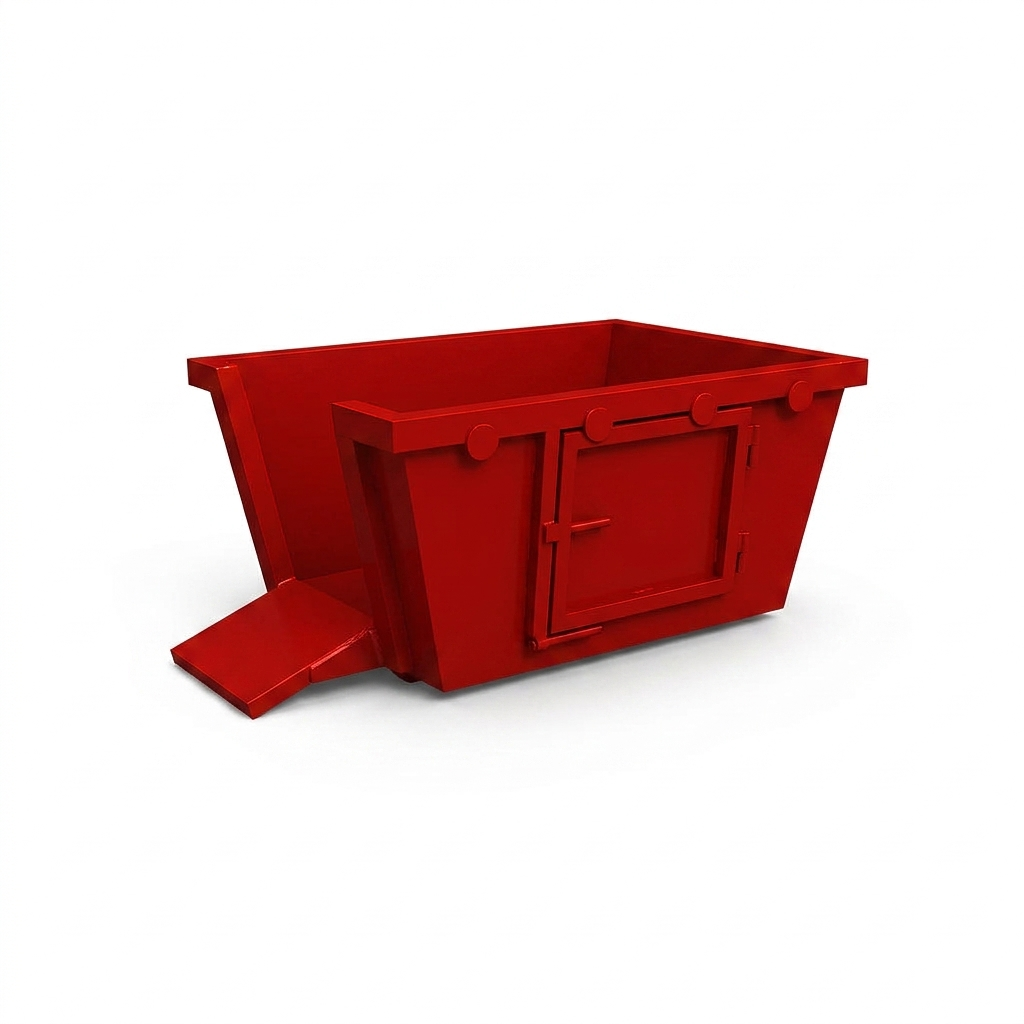
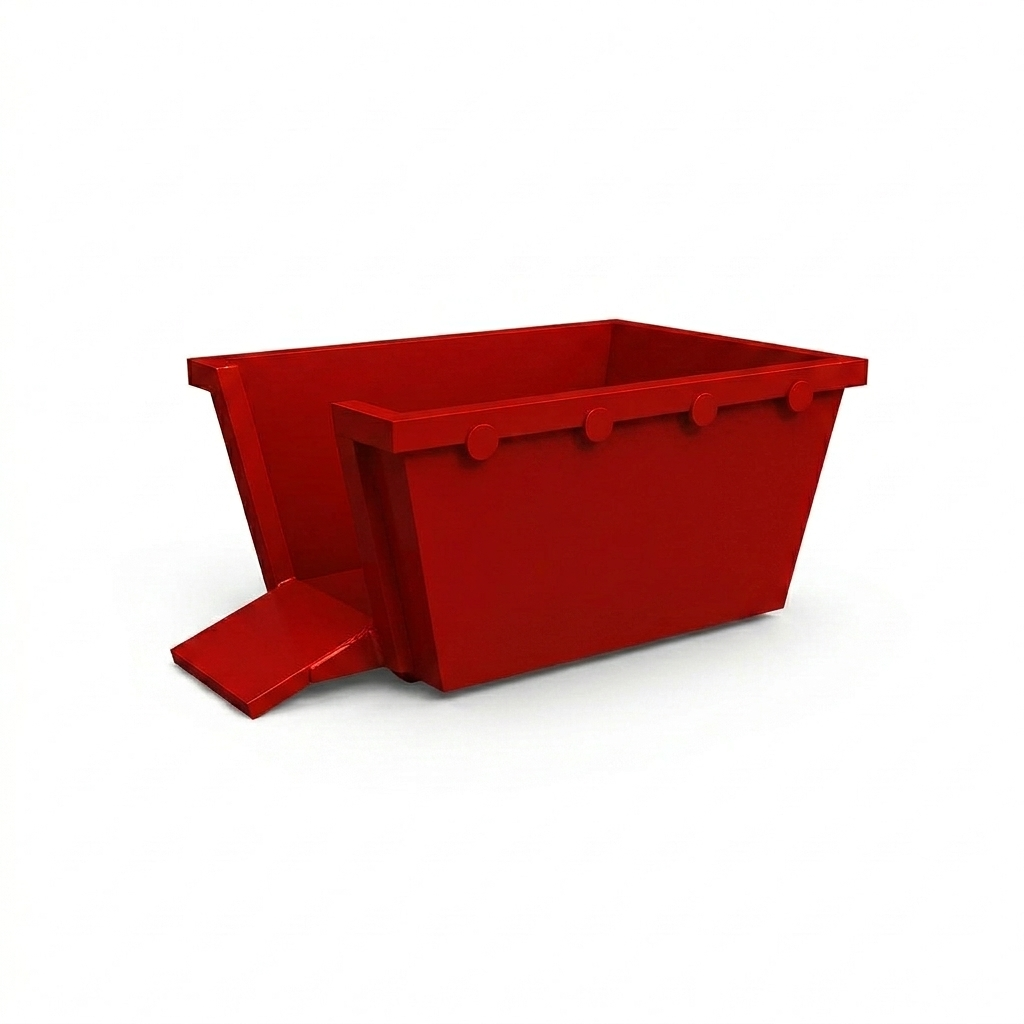
auto-commit for e54a3b36-21b4-4f69-8a6c-22b076510828

Changed region(s): [[0.5, 0.375, 0.75, 0.6562]]

diff --git a/backend/scripts/remove_doors_from_bins.py b/backend/scripts/remove_doors_from_bins.py
@@ -1,0 +1,68 @@
+"""Remove the walk-in door panel from all 4 skip bin images.
+
+Uses image-to-image to keep everything identical except removing the door.
+"""
+import asyncio
+import base64
+import os
+import sys
+from dotenv import load_dotenv
+from emergentintegrations.llm.chat import LlmChat, UserMessage, ImageContent
+
+load_dotenv("/app/backend/.env")
+API_KEY = os.getenv("EMERGENT_LLM_KEY")
+assert API_KEY
+
+PUBLIC_DIR = "/app/frontend/public"
+
+EDIT_PROMPT = (
+    "This is a red Marrel-style hook-lift skip bin. KEEP everything in this "
+    "image EXACTLY the same — same red colour (#bf0403), same 3/4 perspective, "
+    "same size, same position in frame, same proportions, same attached small "
+    "ramp/chute at the bottom-left, same ground shadow, same pure white "
+    "background. DO NOT change anything else.\n\n"
+    "The ONLY change: REMOVE any walk-in door panel and any visible vertical "
+    "seam lines from the side of the bin. The bin's side should be one smooth, "
+    "uninterrupted red surface with NO door, NO panel outlines, NO seam lines, "
+    "NO handles. Just a clean, solid bin body.\n\n"
+    "Output a single cleaned-up image preserving the original style exactly, "
+    "with the door fully removed."
+)
+
+
+async def remove_door(size_key: str) -> bool:
+    src = os.path.join(PUBLIC_DIR, f"skip-bin-{size_key}m.png")
+    with open(src, "rb") as f:
+        ref_b64 = base64.b64encode(f.read()).decode("utf-8")
+    chat = LlmChat(
+        api_key=API_KEY,
+        session_id=f"skip-bin-no-door-{size_key}",
+        system_message="You carefully edit product render images.",
+    ).with_model("gemini", "gemini-3.1-flash-image-preview").with_params(
+        modalities=["image", "text"]
+    )
+    msg = UserMessage(text=EDIT_PROMPT, file_contents=[ImageContent(ref_b64)])
+    try:
+        text, images = await chat.send_message_multimodal_response(msg)
+    except Exception as e:
+        print(f"[{size_key}m] error: {e}")
+        return False
+    if not images:
+        print(f"[{size_key}m] no images returned. snippet: {(text or '')[:140]}")
+        return False
+    out = os.path.join(PUBLIC_DIR, f"skip-bin-{size_key}m.png")
+    image_bytes = base64.b64decode(images[0]["data"])
+    with open(out, "wb") as f:
+        f.write(image_bytes)
+    print(f"[{size_key}m] DOOR REMOVED -> {out} ({len(image_bytes)} bytes)")
+    return True
+
+
+async def main():
+    targets = sys.argv[1:] or ["2", "3", "4", "6"]
+    for s in targets:
+        await remove_door(s)
+
+
+if __name__ == "__main__":
+    asyncio.run(main())
